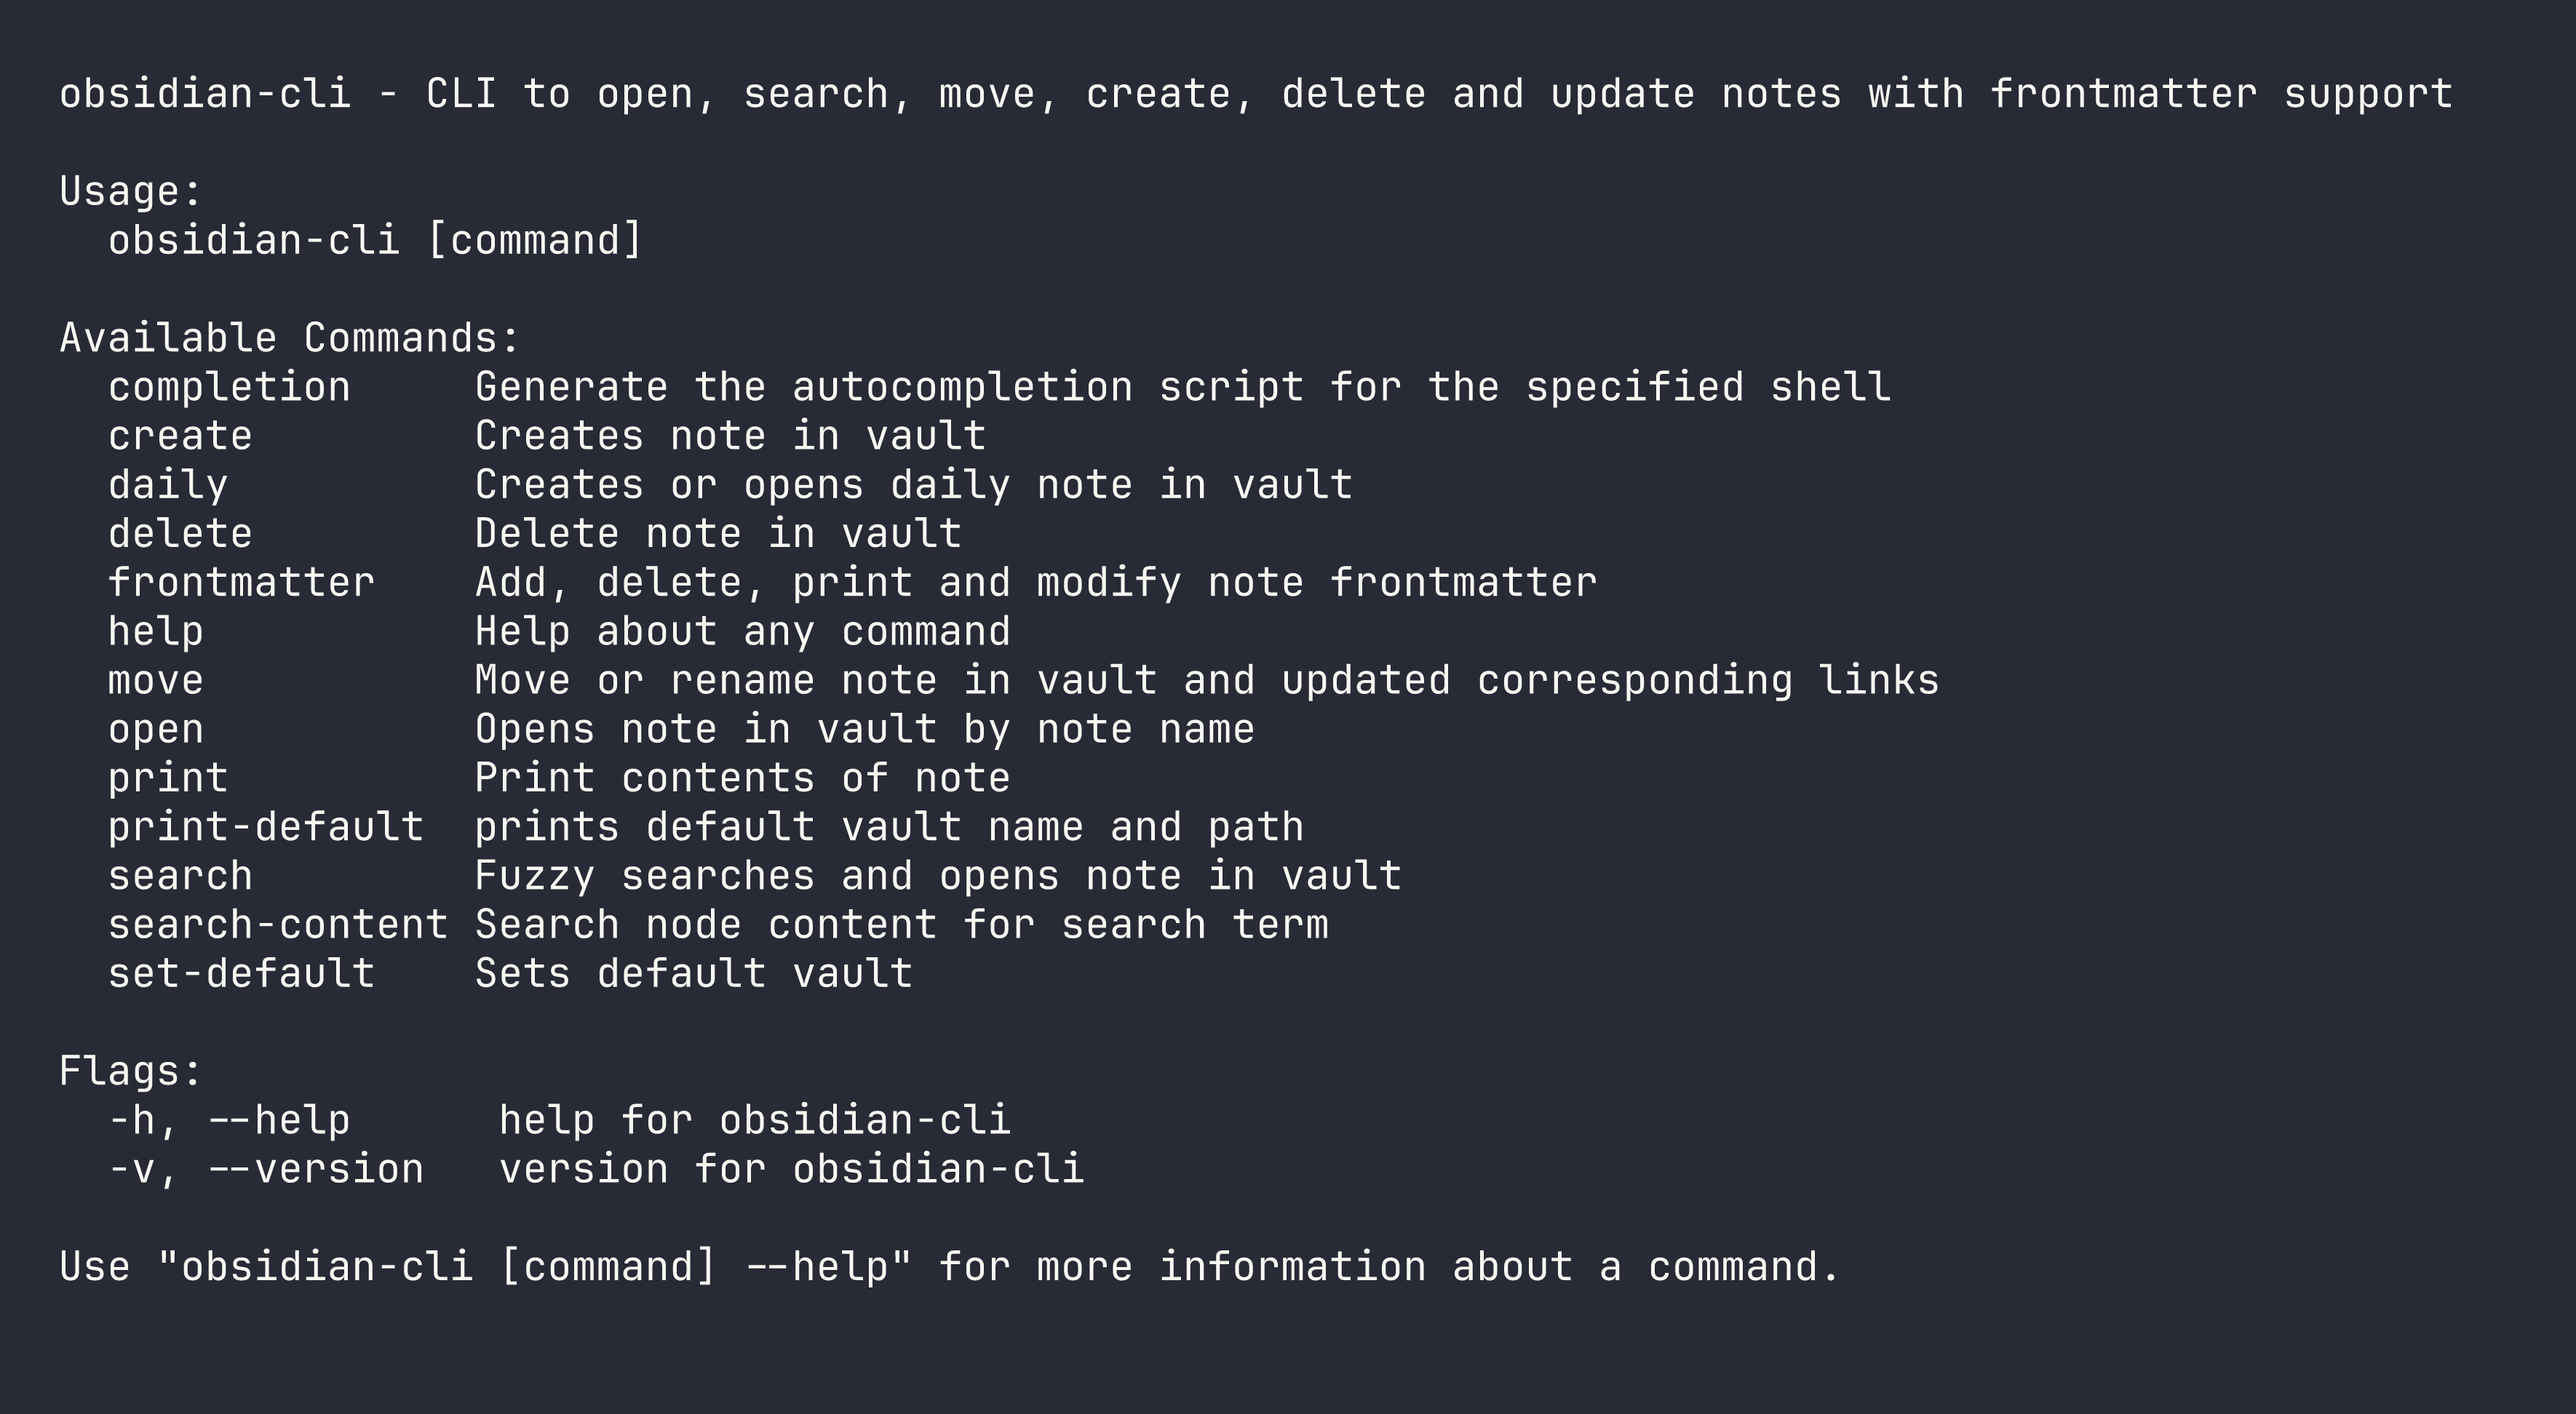
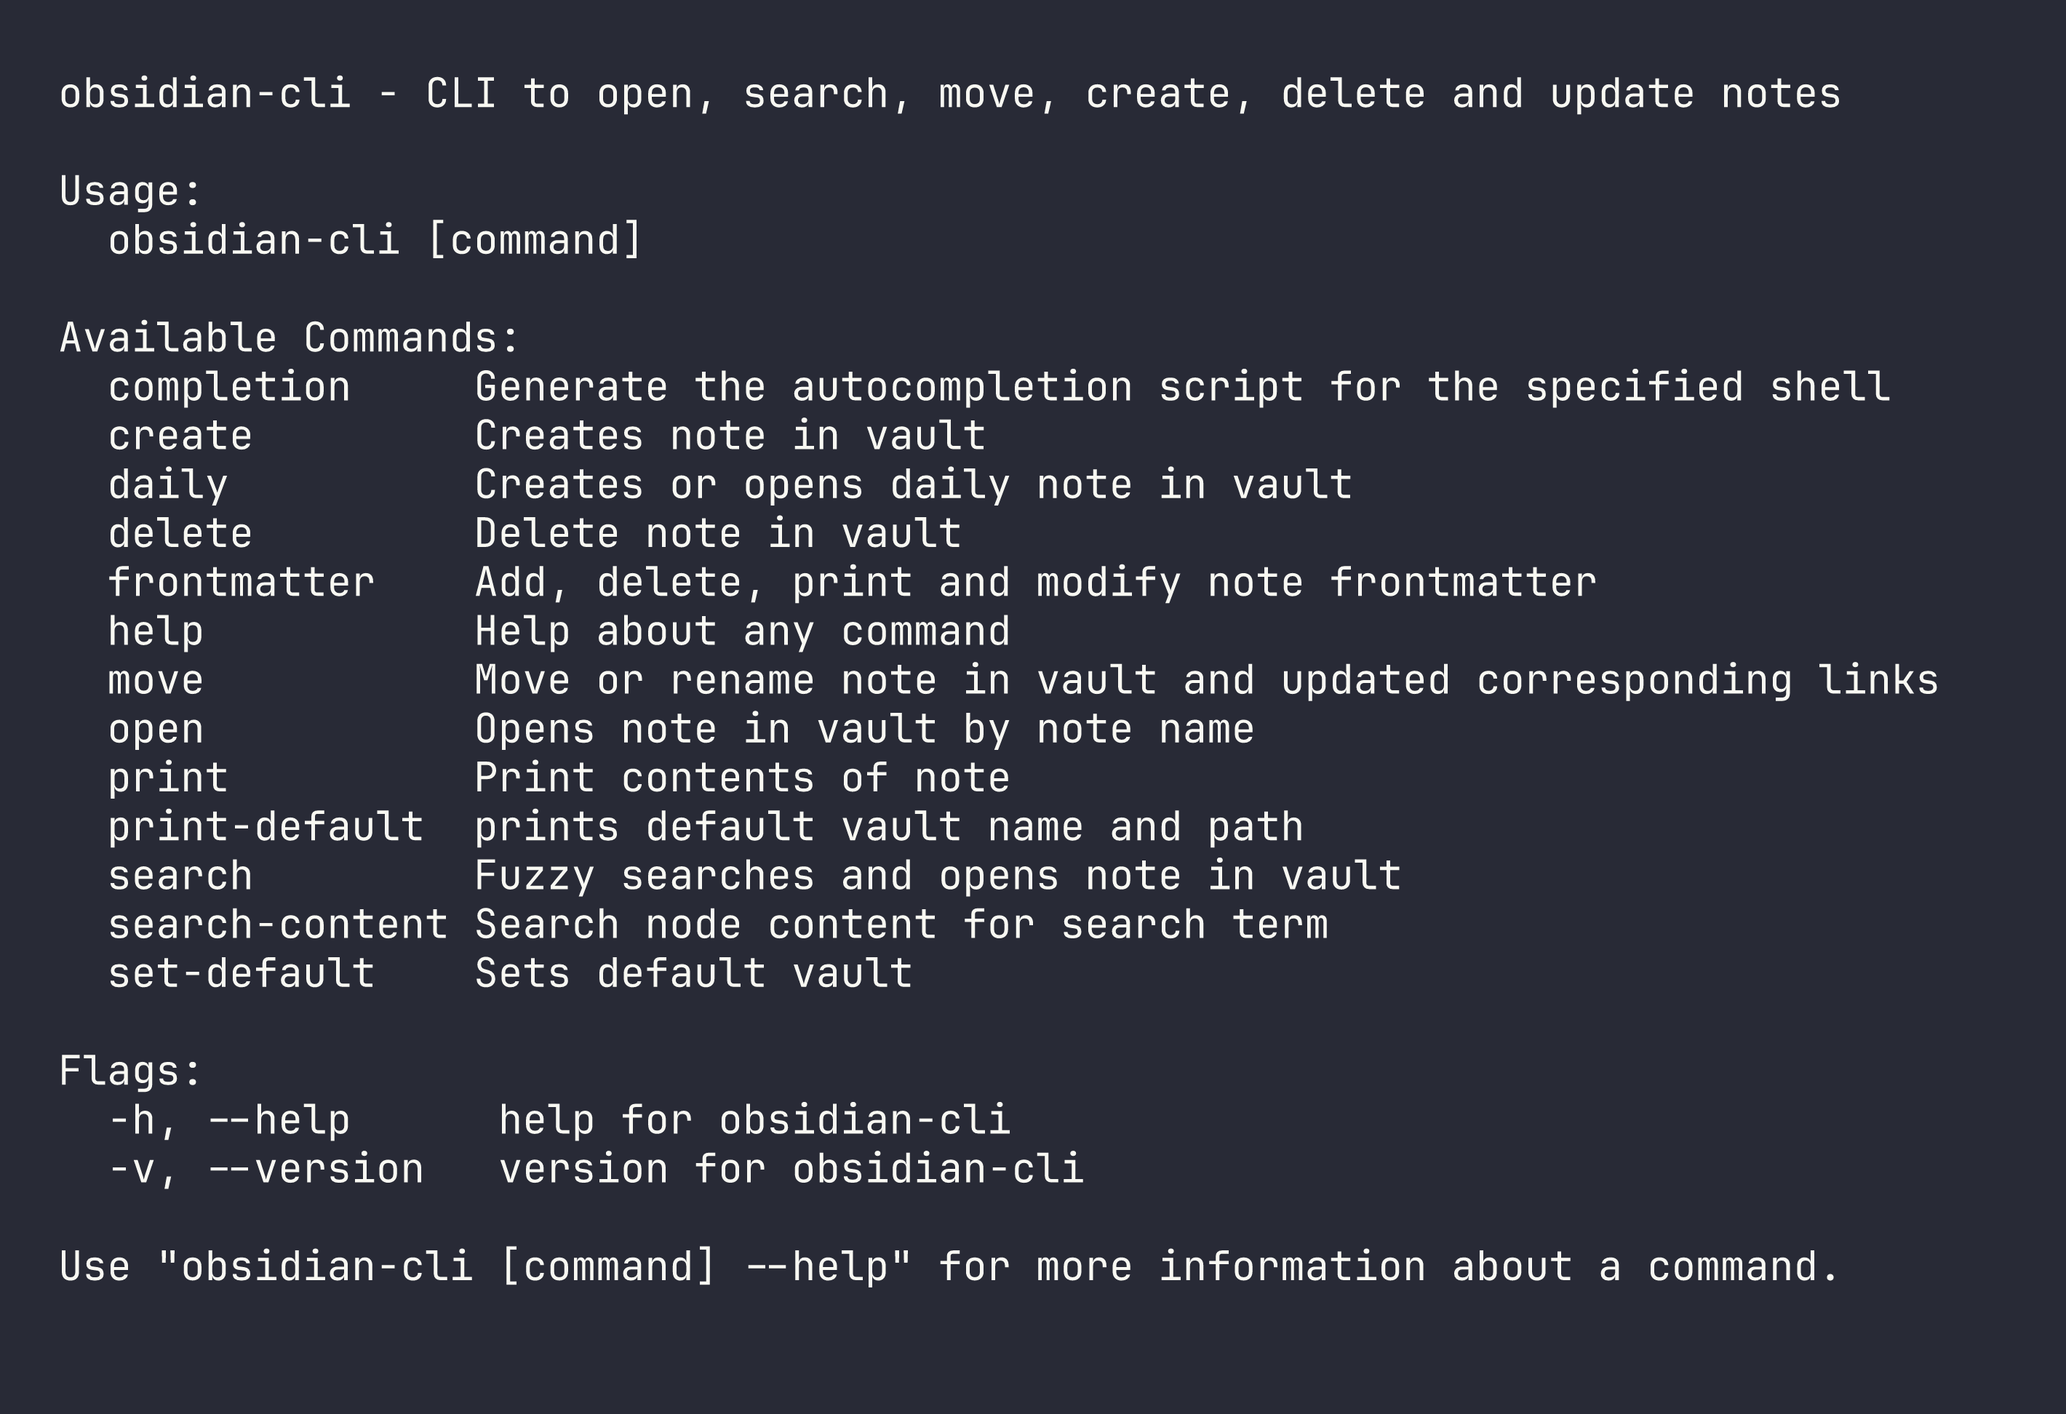
core: cleanup help message

diff --git a/cmd/root.go b/cmd/root.go
@@ -13,7 +13,7 @@ var rootCmd = &cobra.Command{
 	Use:     "obsidian-cli",
 	Short:   "obsidian-cli - CLI to open, search, move, create, delete and update notes",
 	Version: "v0.1.9",
-	Long:    "obsidian-cli - CLI to open, search, move, create, delete and update notes with frontmatter support",
+	Long:    "obsidian-cli - CLI to open, search, move, create, delete and update notes",
 }
 
 func init() {
